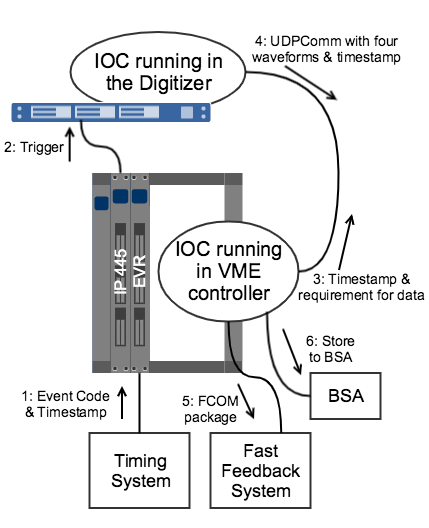
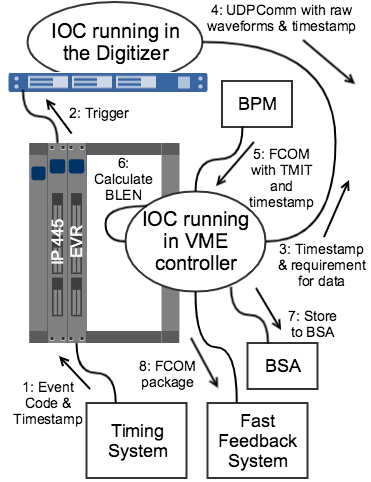
Added details describing VME process and improved the related diagram

diff --git a/WEPHA044.tex b/WEPHA044.tex
@@ -112,27 +112,33 @@ A toroid is placed at the accelerator in a way that the electron beam passes thr
 The signal of the pyro detectors is digitalized, processed by an equation that results in the length of the bunch, and timestamped to log a correspondence between the result and the electron bunch among all the accelerator systems. In the next two sections we will show the architecture of the previous VME-based system and how it was upgraded to an ATCA-based architecture.
 
 \subsection{VME-based architecture}
+Figure \ref{fig:blen_vme} shows the high-level process of the original bunch length system.
 
 \begin{figure}[!htb]
    \centering
    \includegraphics*[width=\columnwidth]{BLEN_VME_Process}
-   \caption{The original bunch length system process.}
+   \caption{The original (before the upgrade) bunch length system process.}
    \label{fig:blen_vme}
 \end{figure}
+
+\begin{enumerate}
+   \item The timing system sends a packet containing the timing pattern with event codes and the timestamp. The EVR in the VME crate receives this data. The IOC running in VME waits for a specific event code. When it arrives, the timestamp is registered.
+   \item Using the IP 445 module, the IOC running in VME sends a trigger to the digitizer, telling it to start collecting data from the pyro detector.
+   \item The IOC running in the VME tells to the IOC running in the Digitizer that it is waiting for data as soon as the Digitizer finishes its digitalization. The VME IOC also sends a timestamp that will be used by the Digitizer IOC as a data label.
+   \item When the digitalization is complete, the Digitizer IOC sends an UDPComm packet to the VME IOC with the digitized data containing one raw waveform per each of the pyro detectors. The data is labeled with the timestamp previously sent by the VME IOC. 
+   \item Parallel to the communication with the Digitizer IOC, the VME IOC receives the charge of the bunch (TMIT) sent by the BPM system, through an FCOM packet.
+   \item The VME IOC confirms the timestamp from the EVR, the Digitizer, and the BPM system and, if they match, it calculates the bunch length.
+   \item The result of the calculation is recorded in the many EPICS records that are part of the BSA system.
+   \item The VME IOC sends an FCOM package to the Fast Feedback System, containing the calculated bunch length.
+\end{enumerate}
+
 
 \subsection{ATCA-based architecture}
 
 \section{Bunch Charge System}
 bla bla bla.
 
-\begin{Itemize}
-    \item  Either A4 (\SI{21.0}{cm}~$\times$~\SI{29.7}{cm}; \SI{8.27}{in}~$\times$~\SI{11.69}{in}) or US
-           letter size (\SI{21.6}{cm}~$\times$~\SI{27.9}{cm}; \SI{8.5}{in}~$\times$~\SI{11.0}{in}) paper.
-    \item  Single-spaced text in two columns of \SI{82.5}{mm} (\SI{3.25}{in}) with \SI{5.3}{mm}
-           (\SI{0.2}{in}) separation. More recent versions of Microsoft Word have a default spacing of 1.5 lines;
-           authors must change this to 1 line.
-    \item  The text located within the margins specified in Table~\ref{tab:margins}.
-\end{Itemize}
+
 \begin{table}[!hbt]
    \centering
    \caption{Margin Specifications}
